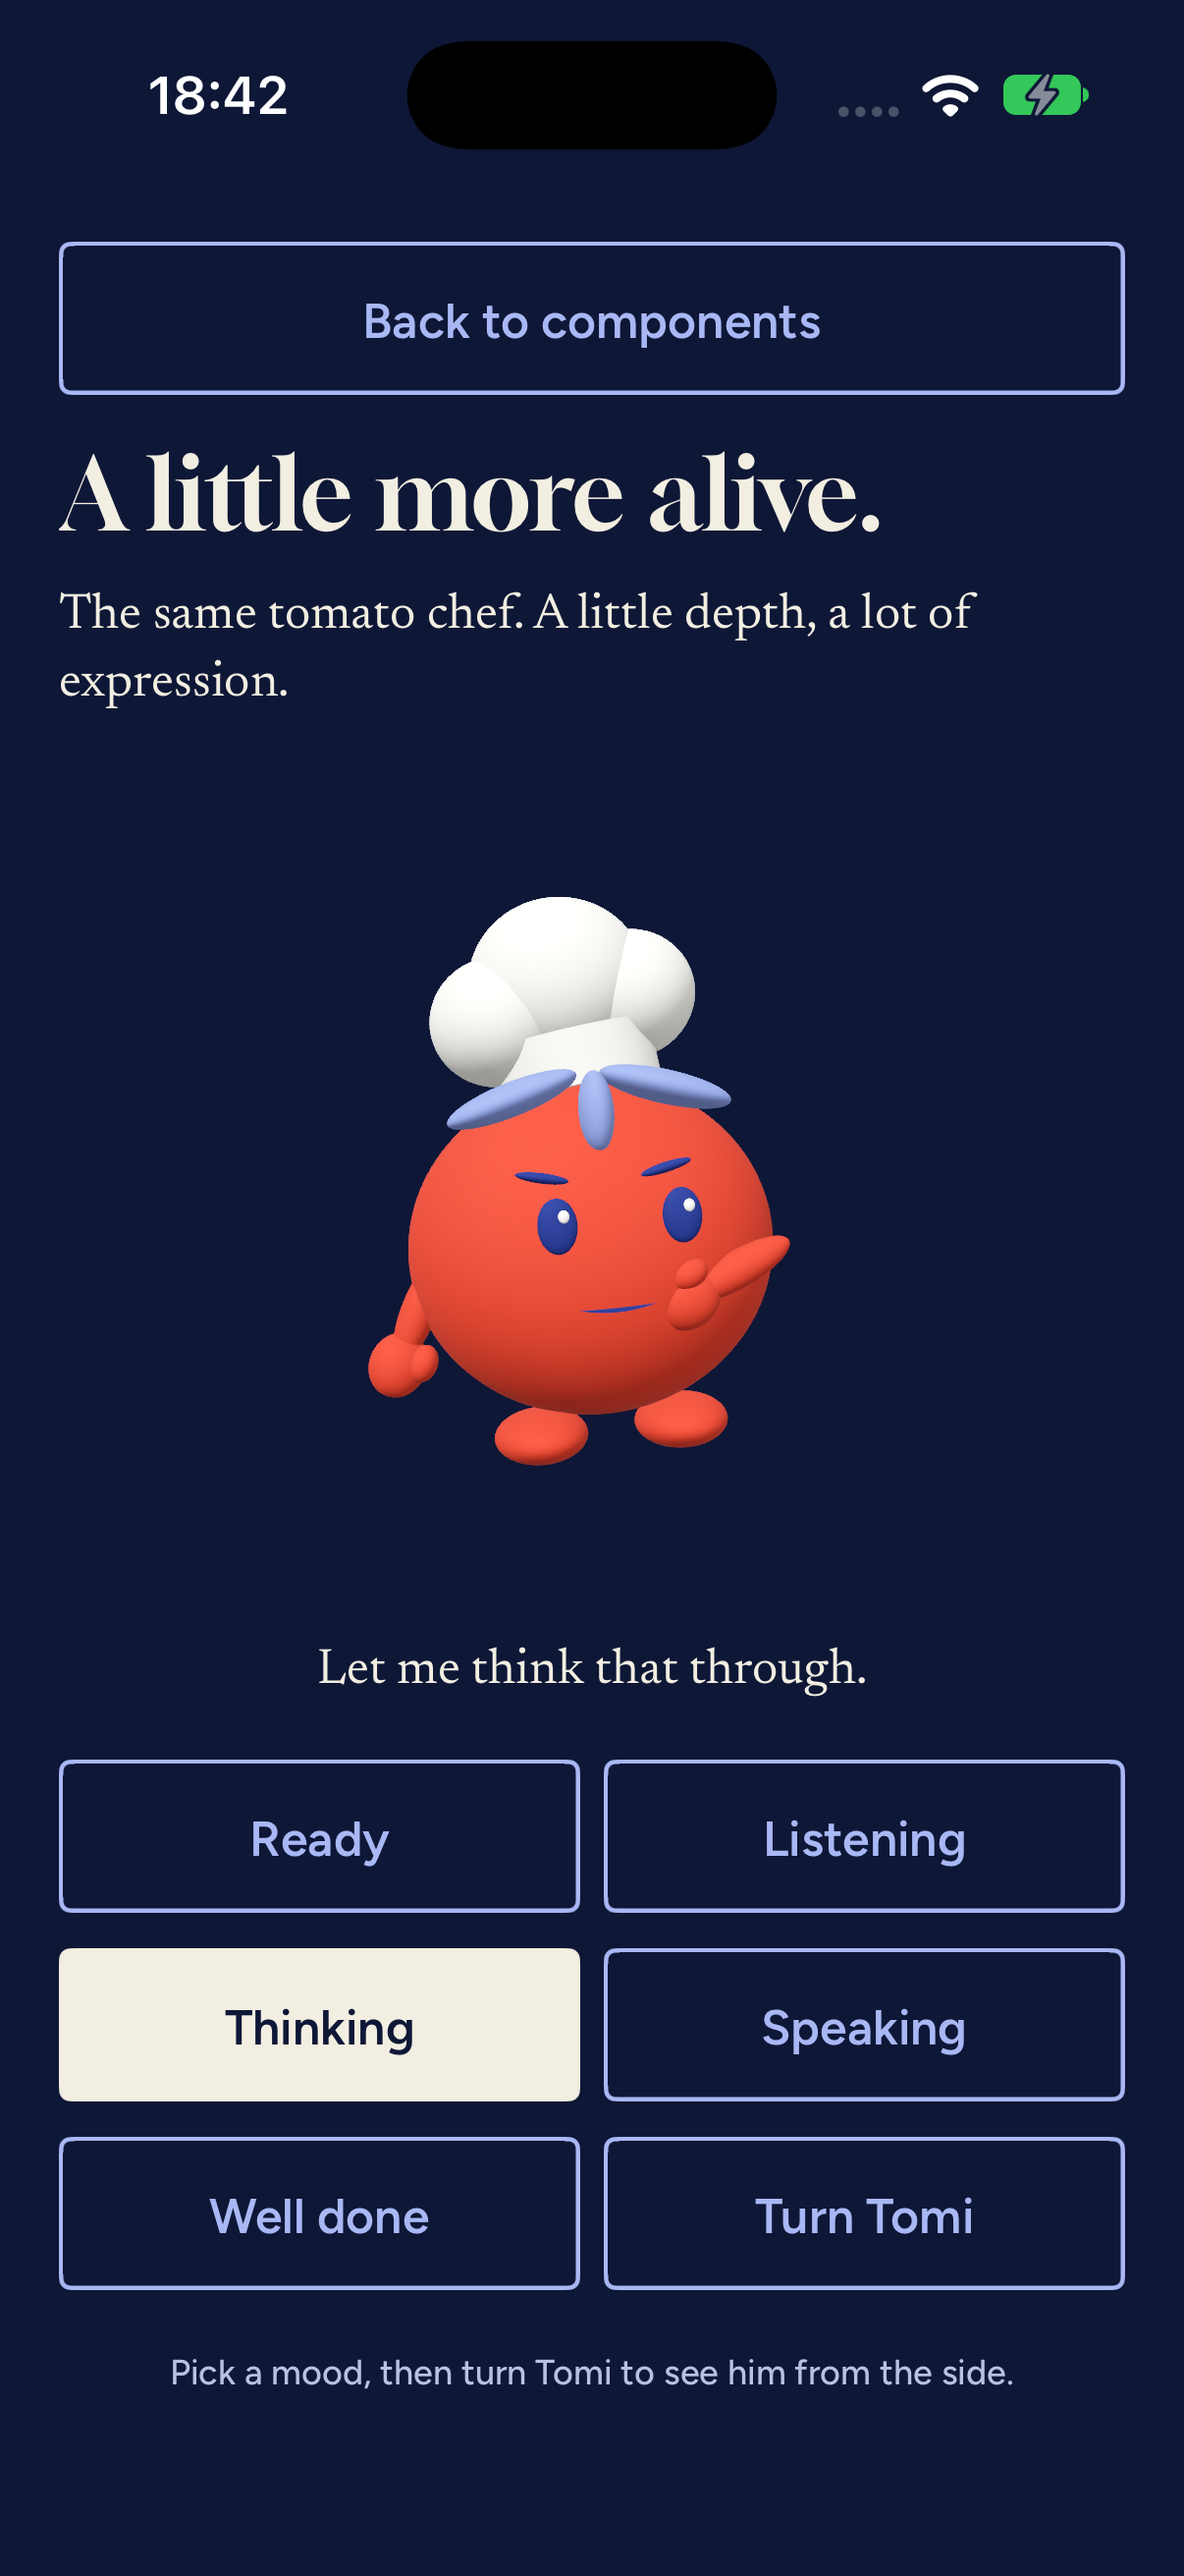
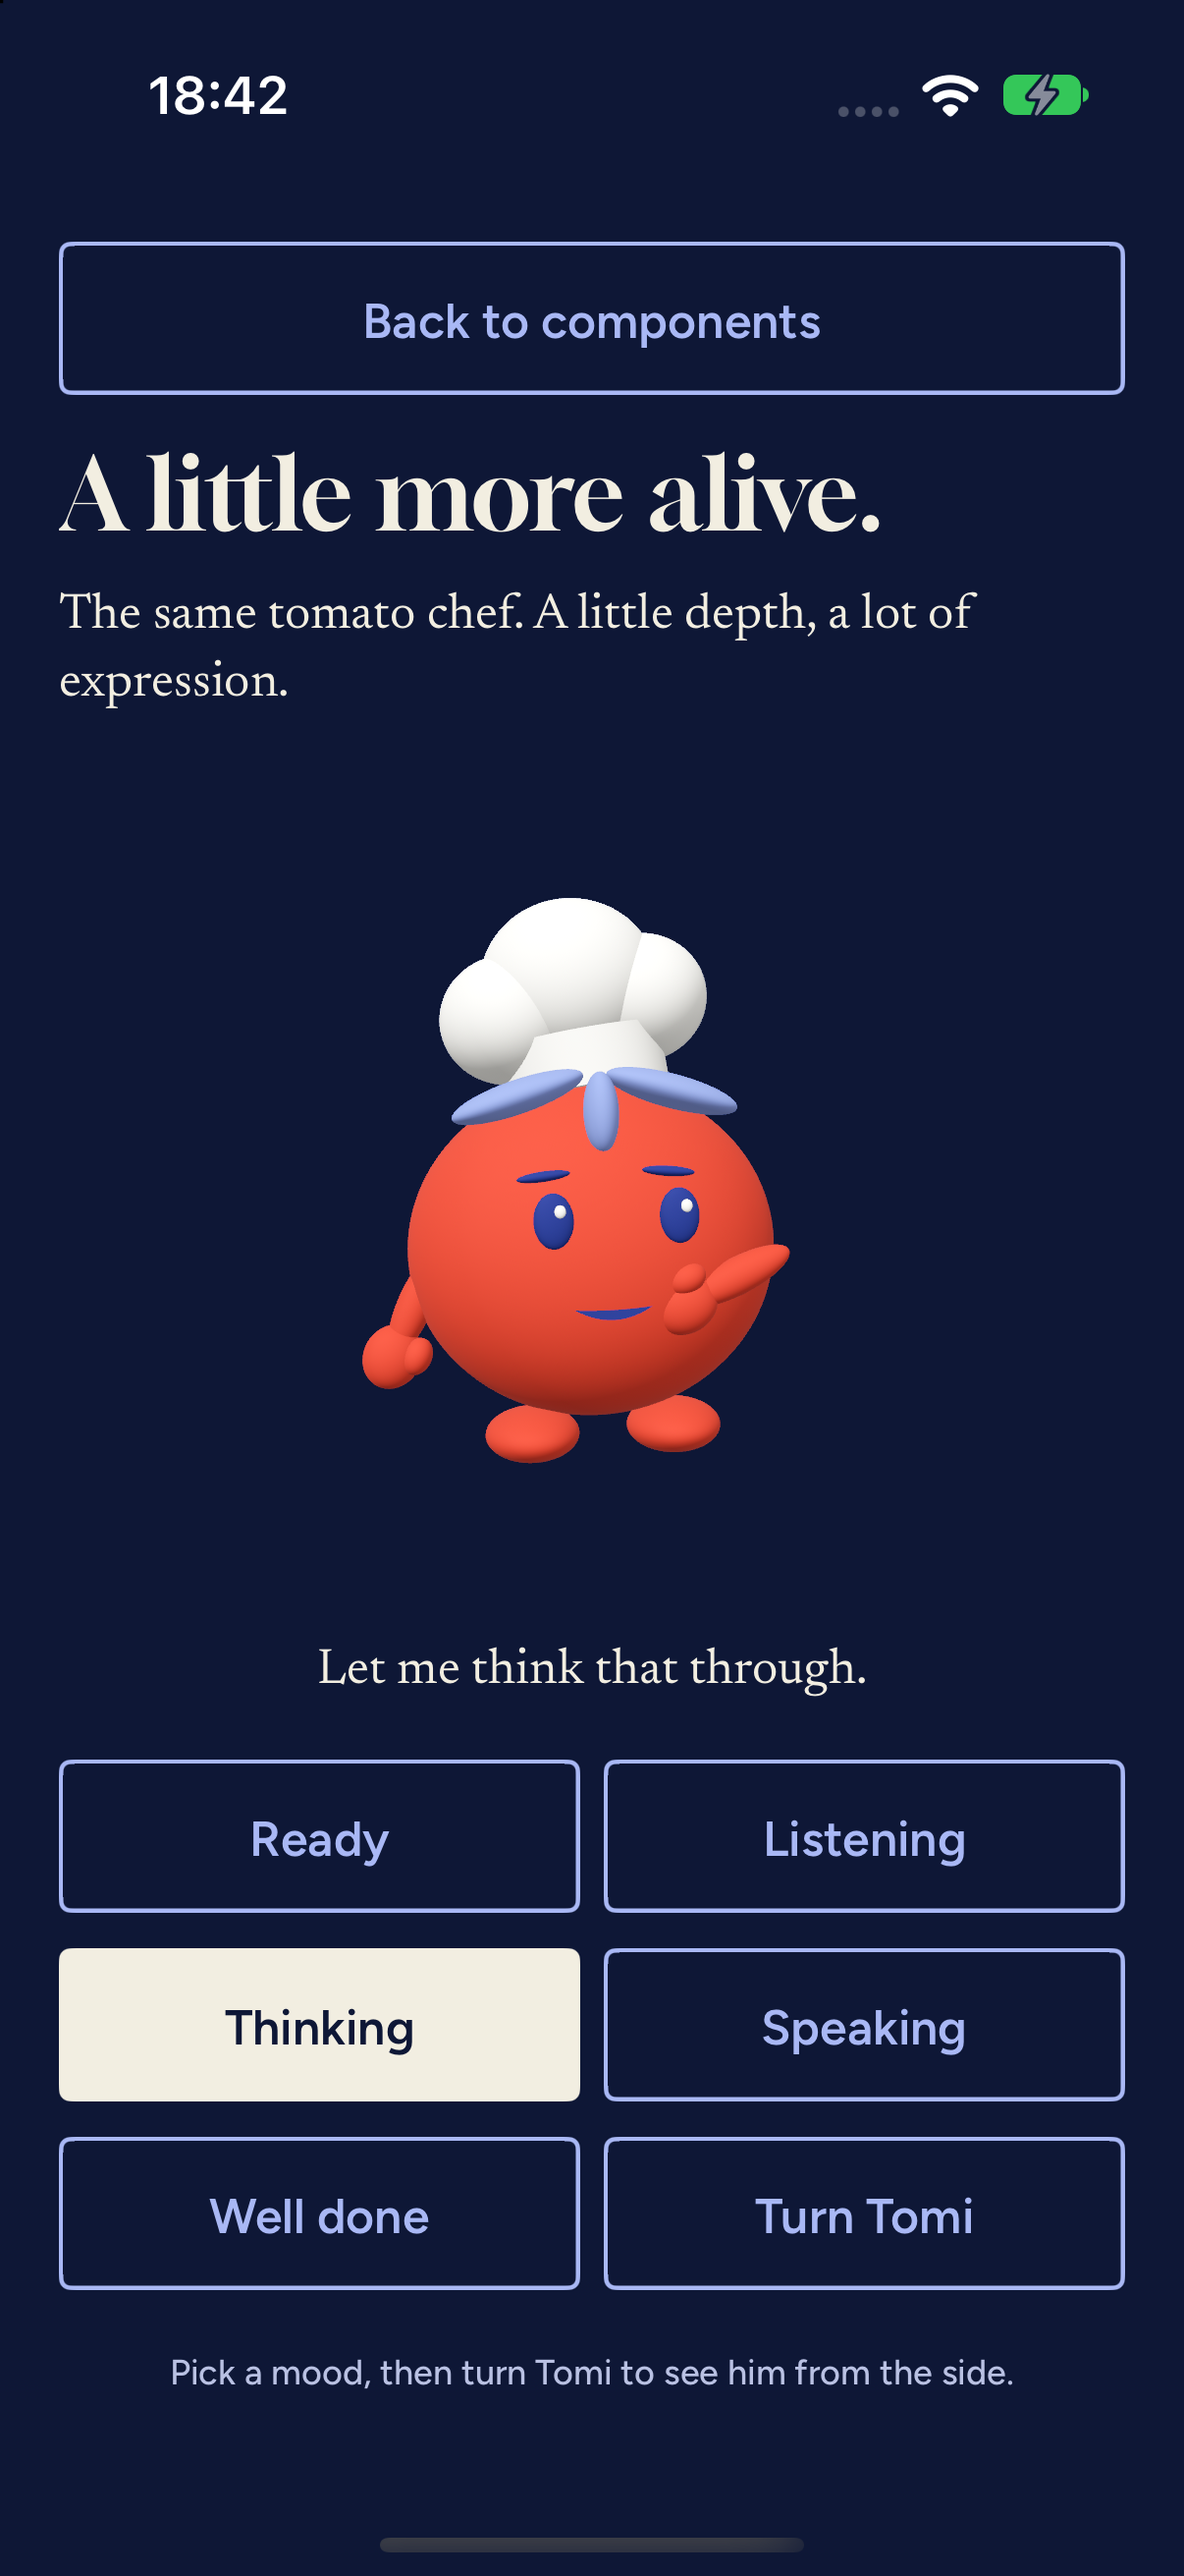
Soften Tomi's thinking expression and gesture (#94)
Give thinking gently lifted brows, a quiet smile and an upward glance. Ease hand depth with the other pose fields so entering, leaving and interrupting the gesture stay smooth. Add failing-first regressions and refresh light and dark simulator evidence.

diff --git a/TomiTests/CompanionTransitionTests.swift b/TomiTests/CompanionTransitionTests.swift
@@ -1,0 +1,41 @@
+import Testing
+
+@testable import Tomi
+
+struct CompanionTransitionTests {
+    @Test @MainActor func thinkingHandDepthEasesIntoThePose() {
+        let rig = CompanionRig()
+        let restingDepth = rig.rightArm.position.z
+        rig.configure(CompanionPresentation(state: .thinking, moving: false))
+        let thinkingDepth = rig.rightArm.position.z
+        rig.configure(CompanionPresentation(state: .idle, moving: false))
+        rig.configure(CompanionPresentation(state: .thinking, moving: true))
+        rig.advance(by: 0.016)
+        #expect(rig.rightArm.position.z < thinkingDepth)
+        #expect(rig.rightArm.position.z > restingDepth)
+    }
+
+    @Test @MainActor func thinkingHandDepthEasesOutOfThePose() {
+        let rig = CompanionRig()
+        let restingDepth = rig.rightArm.position.z
+        rig.configure(CompanionPresentation(state: .thinking, moving: false))
+        let thinkingDepth = rig.rightArm.position.z
+        rig.configure(CompanionPresentation(state: .idle, moving: true))
+        rig.advance(by: 0.016)
+        #expect(rig.rightArm.position.z < thinkingDepth)
+        #expect(rig.rightArm.position.z > restingDepth)
+    }
+
+    @Test @MainActor func interruptedThinkingGestureReversesFromItsCurrentDepth() {
+        let rig = CompanionRig()
+        let restingDepth = rig.rightArm.position.z
+        rig.configure(CompanionPresentation(state: .thinking, moving: true))
+        rig.advance(by: 0.016)
+        let intermediateDepth = rig.rightArm.position.z
+        rig.configure(CompanionPresentation(state: .idle, moving: true))
+        #expect(rig.rightArm.position.z == intermediateDepth)
+        rig.advance(by: 0.016)
+        #expect(rig.rightArm.position.z < intermediateDepth)
+        #expect(rig.rightArm.position.z > restingDepth)
+    }
+}

diff --git a/TomiTests/CompanionExpressionTests.swift b/TomiTests/CompanionExpressionTests.swift
@@ -4,6 +4,20 @@ import Testing
 @testable import Tomi
 
 struct CompanionExpressionTests {
+    @Test @MainActor func thinkingLiftsTheInnerBrowsRatherThanFurrowingThem() {
+        let rig = CompanionRig()
+        rig.configure(CompanionPresentation(state: .thinking, moving: false))
+        #expect(rig.face.leftBrow.orientation.act(SIMD3<Float>(1, 0, 0)).y > 0)
+        #expect(rig.face.rightBrow.orientation.act(SIMD3<Float>(-1, 0, 0)).y > 0)
+    }
+
+    @Test @MainActor func thinkingKeepsAQuietVisibleSmile() {
+        let rig = CompanionRig()
+        rig.configure(CompanionPresentation(state: .thinking, moving: false))
+        #expect(rig.face.mouth.scale.y >= CompanionState.idle.pose.mouth * 0.75)
+        #expect(rig.face.mouth.scale.y < CompanionState.celebrating.pose.mouth * 0.5)
+    }
+
     @Test @MainActor func celebratingHasACurvedSmile() throws {
         let rig = CompanionRig()
         rig.configure(CompanionPresentation(state: .celebrating, moving: false))

diff --git a/Tomi/DesignSystem/Companion/CompanionState+Pose.swift b/Tomi/DesignSystem/Companion/CompanionState+Pose.swift
@@ -8,7 +8,15 @@ extension CompanionState {
         case .listening:
             CompanionPose(yaw: -0.10, tilt: -0.12, rightArm: 2.2, gaze: [0.01, 0.01], brow: 0.16)
         case .thinking:
-            CompanionPose(yaw: 0.16, tilt: 0.09, rightArm: -1.15, gaze: [0.025, 0.026], brow: -0.22, mouth: 0.018)
+            CompanionPose(
+                yaw: 0.10,
+                tilt: 0.045,
+                rightArm: -1.15,
+                rightArmDepth: 0.44,
+                gaze: [0.018, 0.04],
+                brow: 0.10,
+                mouth: 0.04
+            )
         case .explaining:
             CompanionPose(yaw: -0.08, tilt: -0.03, rightArm: 1.45, brow: 0.10, mouth: 0.075)
         case .celebrating:

diff --git a/Tomi/DesignSystem/Companion/CompanionRig+Pose.swift b/Tomi/DesignSystem/Companion/CompanionRig+Pose.swift
@@ -7,8 +7,7 @@ extension CompanionRig {
         body.orientation = orientation(for: pose)
         CompanionSculpt.turn(leftArm, by: pose.leftArm)
         CompanionSculpt.turn(rightArm, by: pose.rightArm)
-        rightArm.position.z = 0.04
-        if presentation.state == .thinking { rightArm.position.z = 0.44 }
+        rightArm.position.z = pose.rightArmDepth
         face.apply(pose)
     }
 

diff --git a/Tomi/DesignSystem/Companion/CompanionPose+Transition.swift b/Tomi/DesignSystem/Companion/CompanionPose+Transition.swift
@@ -9,6 +9,7 @@ extension CompanionPose {
         squash += (target.squash - squash) * fraction
         leftArm += (target.leftArm - leftArm) * fraction
         rightArm += (target.rightArm - rightArm) * fraction
+        rightArmDepth += (target.rightArmDepth - rightArmDepth) * fraction
         expression(toward: target, fraction: fraction)
     }
 

diff --git a/Tomi/DesignSystem/Companion/CompanionPose.swift b/Tomi/DesignSystem/Companion/CompanionPose.swift
@@ -8,6 +8,7 @@ nonisolated struct CompanionPose: Equatable {
     var squash: Float = 1
     var leftArm: Float = -0.45
     var rightArm: Float = 0.45
+    var rightArmDepth: Float = 0.04
     var gaze: SIMD2<Float> = .zero
     var brow: Float = 0
     var mouth: Float = 0.045

diff --git a/docs/design/companion.md b/docs/design/companion.md
@@ -16,7 +16,9 @@ The component opens no microphone, camera or model and reads no cook data.
 The rig owns the body, shoulder pivots, hands, eyes, brows and smiling mouth. Coordinated poses
 change gaze, head angle, arm position and expression. Breathing, blinks, explaining gestures and
 a restrained celebration bounce use elapsed render time, never a wall clock. Pose transitions ease
-from the current pose, including when interrupted by another state.
+from the current pose, including the thinking hand's depth and when interrupted by another state.
+Thinking pairs a hand at the cheek with an upward glance, gently lifted inner brows and a quiet
+smile. The relaxed head angle and open expression should read as considerate curiosity.
 
 Reduce Motion shows each state's complete still pose immediately. Hidden or inactive views cancel
 the render subscription; a visible, active view resumes it. The subscription captures the rig weakly.
